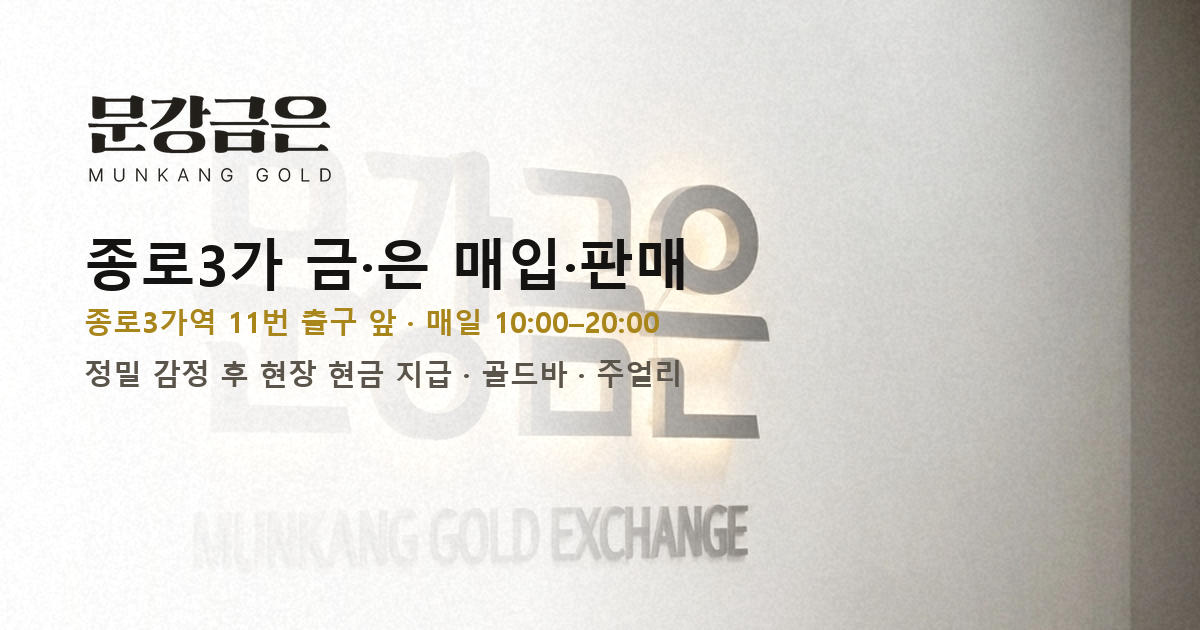
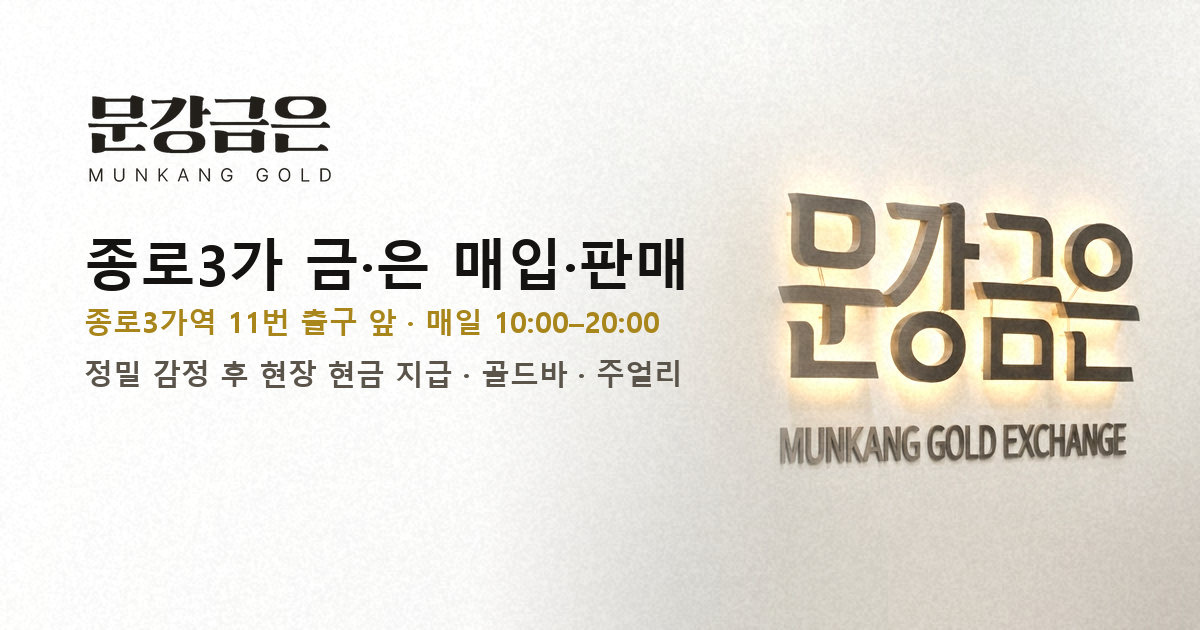
fix: 공유 썸네일 간판을 오른쪽으로 옮겨 문구와 겹치지 않게

diff --git a/scripts/make-banner.py b/scripts/make-banner.py
@@ -306,8 +306,9 @@ def hero_mobile(src):
 def og_image(src):
     """카카오톡·검색 공유 썸네일 — 사진 위에 로고와 문구를 얹는다(단독으로 쓰이므로 여기서 어둡게 처리)."""
     w, h = 1200, 630
-    im = cover(grade(src), w, h, focus=0.55) if LIGHT else spread(grade(src), w, h, 0.74)
-    stops = [(0.0, 250), (0.44, 224), (0.72, 55), (1.0, 8)] if LIGHT else ([(0.0, 215), (0.42, 175), (0.72, 60), (1.0, 24)] if DARK else [(0.0, 240), (0.42, 214), (0.72, 96), (1.0, 52)])
+    # 밝은 모드: 간판을 오른쪽에 두고 왼쪽은 문구 자리로 비운다(문구에 간판이 가려지지 않게)
+    im = lighten(soft_wall(grade(src), w, h, fill=0.30, at_x=0.795, at_y=0.52)) if LIGHT else spread(grade(src), w, h, 0.74)
+    stops = [(0.0, 245), (0.40, 225), (0.56, 60), (0.66, 0), (1.0, 0)] if LIGHT else ([(0.0, 215), (0.42, 175), (0.72, 60), (1.0, 24)] if DARK else [(0.0, 240), (0.42, 214), (0.72, 96), (1.0, 52)])
     layer, mask = linear_overlay((w, h), stops)
     im = grain(Image.composite(layer, im, mask).convert('RGB'))
     d = ImageDraw.Draw(im)
